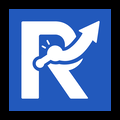
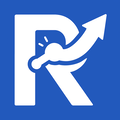
ma

diff --git a/accounts/templates/accounts/index.html b/accounts/templates/accounts/index.html
@@ -6803,7 +6803,7 @@ body.dark-mode .comment-count {
         backdrop-filter: brightness(1.2);
         transition: all 0.3s ease;
     ">
-        <img src="{% static 'main/files/w.png' %}" alt="Rallynex Logo" style="height: 50px; width: 50px; transition: all 0.3s ease;"> RALLYNEX
+        <img src="{% static 'main/files/72.png' %}" alt="Rallynex Logo" style="height: 50px; width: 50px; transition: all 0.3s ease;"> RALLYNEX
     </div>
 
     <!-- Mobile Search Icon on the right -->
@@ -7008,7 +7008,7 @@ body.dark-mode .comment-count {
     backdrop-filter: brightness(1.2);
     margin: 0;
     z-index: 1000;
-"><img src="{% static 'main/files/w.png' %}" alt="Rallynex Logo" style="height: 50px; width: 50px;"> RALLYNEX</h3>
+"><img src="{% static 'main/files/144.png' %}" alt="Rallynex Logo" style="height: 50px; width: 50px;"> RALLYNEX</h3>
 
     <!-- Updated the <nav> tag to <nav class="campaign-nav"> -->
 <nav class="campaign-nav">

diff --git a/main/templates/main/home.html b/main/templates/main/home.html
@@ -6930,7 +6930,7 @@ body.dark-mode .comment-count {
         backdrop-filter: brightness(1.2);
         transition: all 0.3s ease;
     ">
-        <img src="{% static 'main/files/w.png' %}" alt="Rallynex Logo" style="height: 50px; width: 50px; transition: all 0.3s ease;"> RALLYNEX
+        <img src="{% static 'main/files/72.png' %}" alt="Rallynex Logo" style="height: 50px; width: 50px; transition: all 0.3s ease;"> RALLYNEX
     </div>
 
     <!-- Mobile Search Icon on the right -->
@@ -7135,7 +7135,7 @@ body.dark-mode .comment-count {
     backdrop-filter: brightness(1.2);
     margin: 0;
     z-index: 1000;
-"><img src="{% static 'main/files/w.png' %}" alt="Rallynex Logo" style="height: 50px; width: 50px;"> RALLYNEX</h3>
+"><img src="{% static 'main/files/144.png' %}" alt="Rallynex Logo" style="height: 50px; width: 50px;"> RALLYNEX</h3>
 
     <!-- Updated the <nav> tag to <nav class="campaign-nav"> -->
 <nav class="campaign-nav">

diff --git a/main/templates/main/private_campaign.html b/main/templates/main/private_campaign.html
@@ -6787,7 +6787,7 @@ body.dark-mode .no-campaigns .campaigns-time {
     backdrop-filter: brightness(1.2);
     margin: 0;
     z-index: 1000;
-"><img src="{% static 'main/files/w.png' %}" alt="Rallynex Logo" style="height: 50px; width: 50px;"> RALLYNEX</h3>
+"><img src="{% static 'main/files/144.png' %}" alt="Rallynex Logo" style="height: 50px; width: 50px;"> RALLYNEX</h3>
 
     <!-- Updated the <nav> tag to <nav class="campaign-nav"> -->
 <nav class="campaign-nav">
